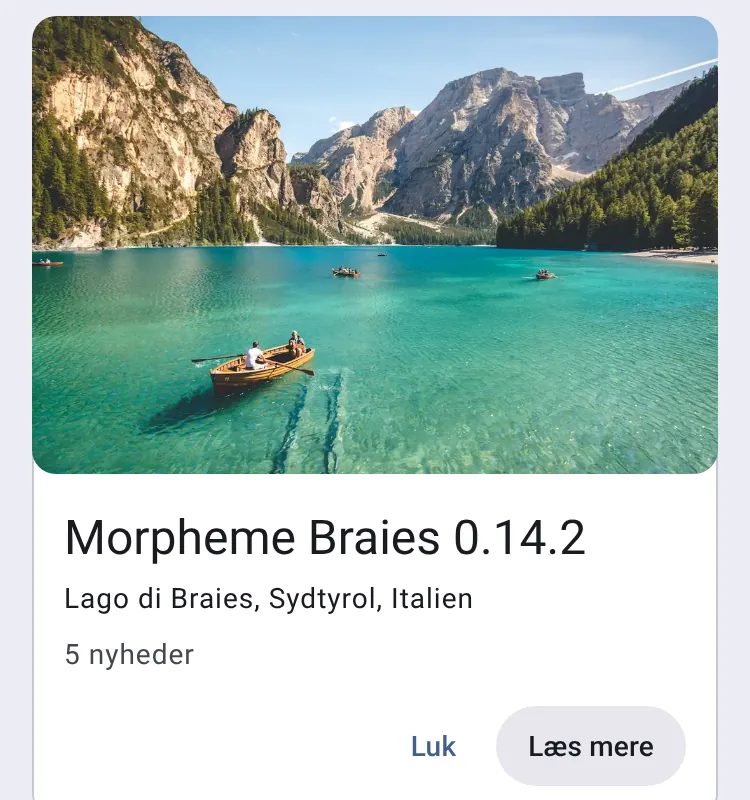
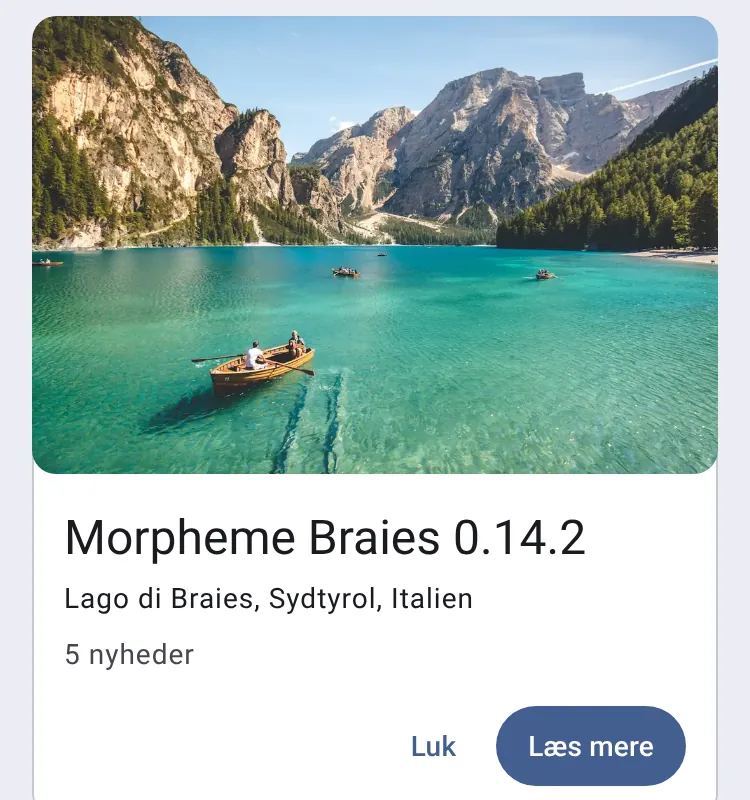
Update card: a 3:2 photo at every breakpoint
The edition's photo is 3:2 with rounded corners everywhere: above the text
in the compact window class, and from medium up to the left of it at the
card's full height, its width following from the ratio. The release-note
screenshots show the filled Read more button.

Claude-Session: https://claude.ai/code/session_01GGzusN3TCZExqovwX6Beg3

Changed region(s): [[0.644, 0.875, 0.92, 1.0]]

diff --git a/src/UpdatesNotice.tsx b/src/UpdatesNotice.tsx
@@ -1,7 +1,7 @@
 // At the top of the start screen: what was updated since the last visit in this browser, as a card with Close, which
 // marks it seen, and Read more. For the CMS: the photo of its edition (release-notes/editions/, named after the place the
-// photo is from), with rounded corners: 3:2 above the text in the compact window class, a 2:3 portrait as high as the
-// card to the left of it from the medium class up; "Morpheme <edition> <version>" (the headline), the place in full (the
+// photo is from), 3:2 with rounded corners: above the text in the compact window class, and from the medium class up
+// to the left of it, as high as the card; "Morpheme <edition> <version>" (the headline), the place in full (the
 // subhead), how many new things it brings (the supporting text, bundledNotes.ts) and Read more to the Morpheme page with
 // all of them; for each app installed from the store: a row with its icon and new version, to its Information tab.
 // Exposes UpdatesNotice. The logic is startView.mjs's (changesSince) and releaseNotes.mjs's (notesSince, editionOf), the
@@ -67,7 +67,7 @@ export function UpdatesNotice({ files }: { files: RepoFile[] }) {
     >
       <div className="grid medium:grid-cols-[auto_1fr]">
         {edition && (
-          <div className="relative aspect-[3/2] w-full medium:aspect-[2/3] medium:h-full medium:w-auto">
+          <div className="relative aspect-[3/2] w-full medium:h-full medium:w-auto">
             <img src={edition.image} alt="" className="absolute inset-0 size-full rounded-xl object-cover" />
           </div>
         )}

diff --git a/.changeset/README.md b/.changeset/README.md
@@ -55,8 +55,8 @@ where it was taken. After an update, the start screen shows the photo and "Morph
 
 - `release-notes/editions/<version>.json`: `name` (the place, short, in the card's headline), `place` (the full place
   per locale, `en-US` and `da-DK`, the card's subhead) and `photo` (`by`, `source` and `license`).
-- `release-notes/editions/<version>.webp`: the photo, 1280 × 720 px, at most 200 KB. The card crops it from the
-  middle: 3:2 above the text on a phone, a 2:3 portrait beside it on larger screens.
+- `release-notes/editions/<version>.webp`: the photo, 1280 × 720 px, at most 200 KB. The card crops it to 3:2
+  from the middle: above the text on a phone, beside it on larger screens.
 
 A version shows the newest edition whose version is at most its own, so an edition keeps its photo and name until the
 next release adds a new one.
